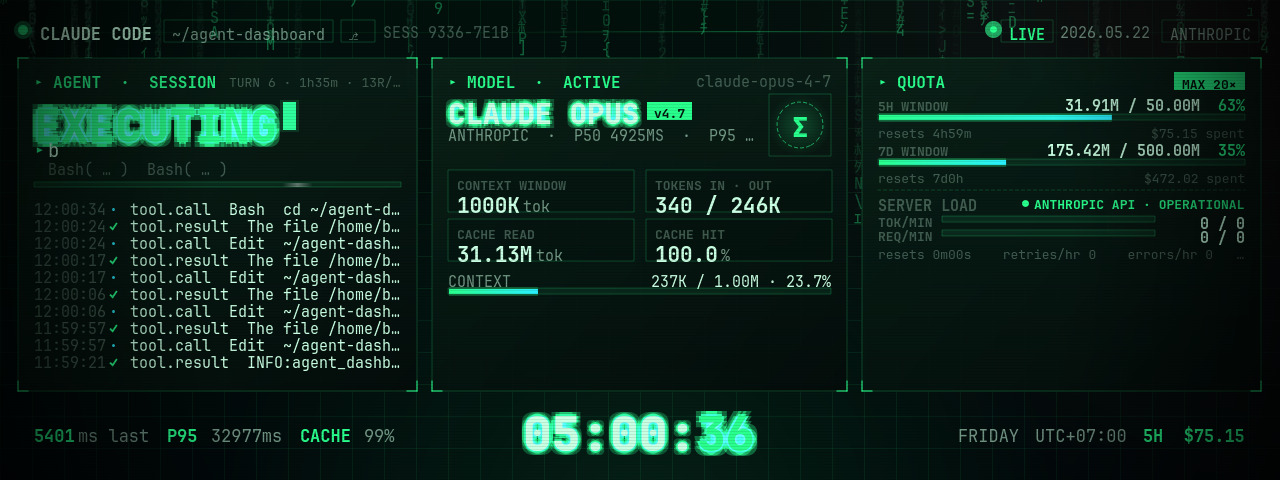
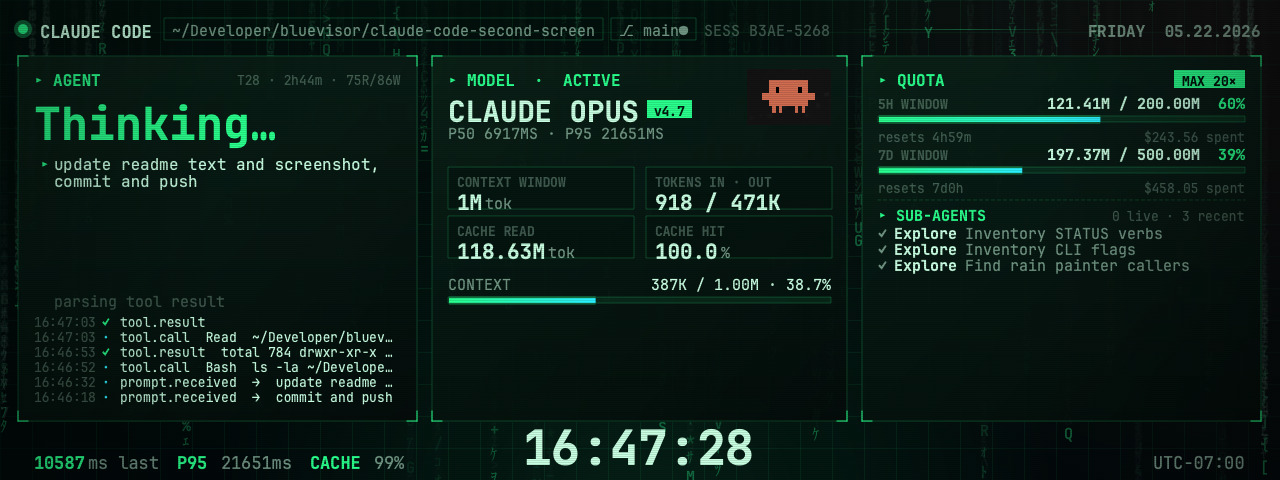
Polish matrix theme and tighten status detection
- Status: skip Claude Code's last-prompt/permission-mode/system/file-history-snapshot
  meta events when deriving the latest agent state (these were appended
  mid-turn and stalled the panel on "Standby…"). Add "processing" verb for
  the gap between prompt submit and first assistant block, plus a "waiting"
  slot for future mid-task user-selection detection.
- Layout: shrink footer to 38 px, equal 12 px top/bottom padding; clock
  vertically centred via real cap-height metrics so the lower edge of the
  three main panels gains ~14 px of usable height.
- README: refresh panel inventory, drop the removed SERVER LOAD limitation,
  document subscription-mode cost suppression and the meta-event filter.
- Screenshot: regenerate against the current matrix theme (anthropic
  figure badge, SUB-AGENTS panel, weekday/date on rail, no glow).

diff --git a/agent_dashboard/themes/matrix.py b/agent_dashboard/themes/matrix.py
@@ -48,6 +48,10 @@ BG_BOT      = QColor(1, 9, 10)
 
 STATUS_VERBS = {
     "idle":       "Standby…",
+    # "Waiting Input…" looks better semantically but doesn't always fit the
+    # 400px agent panel at 34pt ExtraBold; the agent panel falls back to this
+    # short form when the long one overflows.
+    "waiting":    "Waiting…",
     "processing": "Processing…",
     "thinking":   "Thinking…",
     "tool":       "Working…",
@@ -371,11 +375,10 @@ class MatrixThemeWidget(QWidget):
 
     def _draw_rail(self, p: QPainter, r: QRect) -> None:
         a = self.tel.agent
-        src = self.tel.source
         cx = r.left()
-        # Rail vertical center — matches the right-side LIVE chip mid so the
-        # left LED dot and right pulsing dot sit on the same line.
-        rail_mid = r.top() + 6 + 22 // 2  # chip top + chip h/2
+        # Rail vertical center — matches the chip mid so the LED dot and
+        # rail text sit on the same line.
+        rail_mid = r.top() + 6 + 22 // 2
 
         # LED — small 10px dot, faint 18px halo behind it, both centered on rail_mid.
         led_color = MAGENTA if a.status == "error" else (AMBER if a.status == "idle" else PHOSPHOR)
@@ -404,31 +407,17 @@ class MatrixThemeWidget(QWidget):
         ff = font(11, QFont.Normal)
         cx += self._text(p, cx, r.top() + 9, sess, ff, INK_FAINT) + 12
 
-        # right side: bare source dot + label only.
-        src_label = src
-        src_color = PHOSPHOR if src == "LIVE" else (AMBER if src == "STALE" else INK_FAINT)
-        src_f = font(11, QFont.Bold)
-        src_w = QFontMetrics(src_f).horizontalAdvance(src_label)
-        text_x = r.right() - src_w
-        dot_x = text_x - 16
-        pulse = 0.55 + 0.45 * (math.sin(self.blink * math.pi * 1.6) * 0.5 + 0.5)
-        halo = QColor(src_color)
-        halo.setAlpha(int(160 * pulse) if src == "LIVE" else 0)
-        if halo.alpha() > 0:
-            p.save()
-            p.setCompositionMode(QPainter.CompositionMode_Plus)
-            p.setPen(Qt.NoPen)
-            p.setBrush(halo)
-            p.drawEllipse(QRectF(dot_x - 5, rail_mid - 8.5, 17, 17))
-            p.restore()
-        p.setPen(Qt.NoPen)
-        p.setBrush(src_color)
-        p.drawEllipse(QRectF(dot_x, rail_mid - 3.5, 7, 7))
-        self._text(p, text_x, r.top() + 9, src_label, src_f, src_color)
+        # right side: weekday + date (replaces the old LIVE pulse + chip).
+        now = datetime.now()
+        date_text = f"{now.strftime('%A').upper()}  {now.month:02d}.{now.day:02d}.{now.year:04d}"
+        date_f = font(12, QFont.Bold)
+        date_w = QFontMetrics(date_f).horizontalAdvance(date_text)
+        date_x = r.right() - date_w
+        self._text(p, date_x, r.top() + 9, date_text, date_f, INK_DIM)
 
-        # separator — gradient line between left cluster and right cluster
+        # separator — gradient line between left cluster and date
         sep_left = cx + 4
-        sep_right = dot_x - 12
+        sep_right = date_x - 12
         if sep_right > sep_left:
             sep_grad = QLinearGradient(sep_left, 0, sep_right, 0)
             sep_grad.setColorAt(0.0, QColor(41, 255, 140, 0))
@@ -484,12 +473,19 @@ class MatrixThemeWidget(QWidget):
         # "Reading…" while a Read tool is open, not just "Working…".
         if a.status == "tool" and a.current_tool in TOOL_VERBS:
             verb = TOOL_VERBS[a.current_tool]
+        elif a.status == "waiting":
+            # Prefer the longer, more specific phrasing when there's room.
+            verb = "Waiting Input…"
         else:
             verb = STATUS_VERBS.get(a.status, a.status.title() + "…")
         vf = font(34, QFont.ExtraBold)
+        # Caret + a little breathing room cost ~26 px to the right of the verb.
+        max_verb_w = r.right() - 16 - cx - 26
+        if QFontMetrics(vf).horizontalAdvance(verb) > max_verb_w:
+            verb = STATUS_VERBS.get(a.status, verb)
         adv = draw_glow_text(p, cx, cy, verb, vf, PHOSPHOR, PHOSPHOR_SOFT, glow_alpha=70, glow_radius=5)
-        # blinking caret aligned to cap height of the verb (skip when idle).
-        if a.status != "idle":
+        # blinking caret aligned to cap height of the verb (skip when idle/waiting).
+        if a.status not in ("idle", "waiting"):
             blink_on = (self.blink % 1.0) < 0.5
             if blink_on:
                 vfm = QFontMetrics(vf)
@@ -777,10 +773,6 @@ class MatrixThemeWidget(QWidget):
         now = datetime.now()
         m = self.tel.model
         q = self.tel.quota
-        date_text = f"{now.strftime('%A').upper()}  {now.month:02d}.{now.day:02d}.{now.year:04d}"
-        date_f = font(12, QFont.Bold)
-        date_w = QFontMetrics(date_f).horizontalAdvance(date_text)
-        self._text(p, r.center().x() - date_w // 2, r.top() + 4, date_text, date_f, INK_FAINT)
 
         # left stats
         left_text_parts = [
@@ -789,7 +781,7 @@ class MatrixThemeWidget(QWidget):
             ("CACHE ", f"{int((m.cache_read_tokens / max(m.cache_read_tokens + m.input_tokens, 1)) * 100)}%"),
         ]
         lx = r.left() + 16
-        ly = r.center().y() - 2
+        ly = r.center().y() + 4  # nudge to vertical center after footer shrank
         for a_text, b_text in left_text_parts:
             adv = self._text(p, lx, ly, a_text, font(13, QFont.Bold), PHOSPHOR)
             lx += adv + 3
@@ -813,7 +805,11 @@ class MatrixThemeWidget(QWidget):
         s_w = cfm.horizontalAdvance(ss)
         total = h_w + c_w + m_w + c2_w + s_w
         x = r.center().x() - total // 2
-        y = r.top() + 20
+        # Centre the clock vertically inside the footer — equalise top/bottom
+        # spacing by aligning its cap-mid to the footer's geometric mid.
+        cap_top_offset = cfm.ascent() - cfm.capHeight()
+        y = r.center().y() - (cfm.capHeight() / 2) - cap_top_offset
+        y = int(y)
         draw_glow_text(p, x, y, hh, clock_f, INK, PHOSPHOR_SOFT, glow_alpha=60, glow_radius=4); x += h_w
         draw_glow_text(p, x, y, col_blink, clock_f, INK, PHOSPHOR_SOFT, glow_alpha=60, glow_radius=4); x += c_w
         draw_glow_text(p, x, y, mm, clock_f, INK, PHOSPHOR_SOFT, glow_alpha=60, glow_radius=4); x += m_w
@@ -852,19 +848,23 @@ class MatrixThemeWidget(QWidget):
 
         self._paint_bg(p)
 
-        # frame padding 14 vertical, 18 horizontal
-        pad_x, pad_y = 18, 14
+        # Frame padding: equal top/bottom so the clock has the same air above
+        # and below. Footer is slim so the panels still get the height boost.
+        pad_x = 18
+        pad_y_top = 12
+        pad_y_bot = 12
         frame_w = 1280 - 2 * pad_x
-        frame_h = 480 - 2 * pad_y
-        # rail 34, gap 10, main flex, gap 10, footer 64
+        # rail 34, gap 10, main flex, gap 8, footer 38.
         rail_h = 34
-        footer_h = 64
-        main_h = frame_h - rail_h - footer_h - 20  # two 10px gaps
+        footer_h = 38
+        gap_above_main = 10
+        gap_below_main = 8
+        main_h = 480 - pad_y_top - pad_y_bot - rail_h - footer_h - gap_above_main - gap_below_main
 
-        rail_rect = QRect(pad_x, pad_y, frame_w, rail_h)
-        main_top = pad_y + rail_h + 10
+        rail_rect = QRect(pad_x, pad_y_top, frame_w, rail_h)
+        main_top = pad_y_top + rail_h + gap_above_main
         main_rect = QRect(pad_x, main_top, frame_w, main_h)
-        footer_rect = QRect(pad_x, main_top + main_h + 10, frame_w, footer_h)
+        footer_rect = QRect(pad_x, main_top + main_h + gap_below_main, frame_w, footer_h)
 
         self._draw_rail(p, rail_rect)
 

diff --git a/agent_dashboard/telemetry/claude_code.py b/agent_dashboard/telemetry/claude_code.py
@@ -444,6 +444,7 @@ class ClaudeCodeSource:
     # while the assistant is actively working.
     _META_TYPES: frozenset[str] = frozenset({
         "last-prompt", "permission-mode", "summary", "system",
+        "file-history-snapshot",
     })
 
     def _derive_status(self, evs: list[dict[str, Any]], last_assistant_idx: int) -> tuple[str, str | None, str]:
@@ -497,7 +498,11 @@ class ClaudeCodeSource:
             kinds = [b.get("type") for b in (msg.get("content") or [])]
             if kinds and kinds[-1] == "thinking":
                 return ("thinking", None, "reasoning")
-            # else assistant just emitted text — if recent, still writing; else idle
+            # else assistant just emitted text — if recent, still writing;
+            # otherwise the turn is fully done → idle/standby. (Mid-task
+            # "waiting on user selection" is a different state and would
+            # need its own detection — Claude Code's jsonl doesn't surface
+            # a clean signal for permission prompts.)
             ts = _iso_to_ts(last.get("timestamp", ""))
             if ts > 0 and (time.time() - ts) < 3:
                 return ("writing", None, "drafting response")

diff --git a/agent_dashboard/telemetry/types.py b/agent_dashboard/telemetry/types.py
@@ -43,7 +43,7 @@ class Agent:
     git_branch: str
     git_dirty: bool
     started_at: str
-    status: Literal["idle", "thinking", "tool", "writing", "error", "processing"]
+    status: Literal["idle", "thinking", "tool", "writing", "error", "processing", "waiting"]
     current_task: str
     current_tool: str | None
     detail: str

diff --git a/README.md b/README.md
@@ -93,13 +93,17 @@ but only **matrix** is implemented today.
 
 The default look. Three-panel grid:
 
-- **Left** — Agent: status verb, current task, tool detail, progress bar, scrolling log
-- **Middle** — Model: name, version, latency, context bar, in/out + cache totals
-- **Right** — Quota: 5H / 7D rolling windows, server status, tok/min and req/min
+- **Left** — Agent: status verb (`Thinking…` / `Reading…` / `Working…` …), wrapped prompt, tool detail, scrolling log
+- **Middle** — Model: name, version, P50/P95 latency, in/out tokens, cache stats, context bar
+- **Right** — Quota: 5H / 7D rolling token + cost windows, recent sub-agent invocations
 
-Visual effects: phosphor glow on big text, falling katakana glyph rain,
-radial-masked hairline grid, animated scan-highlight on the activity bar,
-pulsing LIVE indicator, CRT scanlines + vignette.
+Top rail: agent label, cwd / git-branch / session-id chips, weekday + date.
+Footer: last-request / P95 / cache-hit stats, big wall-clock, timezone.
+
+Visual effects: falling katakana glyph rain in the gutters, radial-masked
+hairline grid, animated scan-highlight on the activity bar, CRT
+interlacing + subtle vignette, blinking cap-aligned caret next to the
+status verb.
 
 ![Matrix theme — demo mode](docs/screenshot-matrix-demo.jpg)
 
@@ -137,9 +141,12 @@ For Claude Code mode, `ClaudeCodeSource`:
    within the last 7 days, accumulating per-event token totals into a deque.
 2. On each tick (1 Hz), it `seek()`s past the previously-read offset of the
    active session file and parses only the new lines.
-3. Derives `agent.status` from the last event: open `tool_use` → `tool`;
-   recent assistant `text` → `writing`; trailing `thinking` block → `thinking`;
-   else `idle`.
+3. Derives `agent.status` from the most recent *meaningful* event (skipping
+   `last-prompt` / `permission-mode` / `system` / `file-history-snapshot`
+   metadata that Claude Code appends mid-turn): open `tool_use` → `tool`
+   with a tool-specific verb (`Reading…`, `Editing…`, `Running…`, etc.);
+   trailing `thinking` → `thinking`; recent assistant `text` → `writing`;
+   user-string prompt awaiting reply → `processing`; else `idle`.
 4. Sums every assistant message's `usage` into cumulative + rolling windows.
 
 For Codex mode, `CodexSource`:
@@ -155,12 +162,18 @@ For Codex mode, `CodexSource`:
 
 - **Matrix is the only theme.** Fantasy / Cozy / Studio (from the handoff
   bundle) aren't ported.
-- **`server.tokensRemainingMin` is 0.** Claude Code's jsonl doesn't carry
-  the API rate-limit response headers, so the "TOK/MIN" and "REQ/MIN" rows
-  are placeholders. (A future MITM proxy could fill these in.)
+- **No live rate-limit data.** Claude Code's jsonl doesn't carry the API
+  rate-limit response headers, so the dashboard relies on rolling token
+  totals it computes itself. (A future MITM proxy could surface real
+  `requests_remaining_min` / `tokens_remaining_min`.)
 - **Quota caps are auto-scaled** from observed usage rather than your
   actual plan limits. Adjust `cap_5h` / `cap_7d` in
   `telemetry/claude_code.py` if you want hard targets.
+- **5H cost is hidden on subscription plans.** When `quota.plan` starts
+  with `MAX` / `PRO` / `FREE` / `TEAM` the footer skips the dollar tally
+  since flat-fee billing makes the per-request total noise.
+- **Sub-agent panel populates only for Claude Code Agent/Task calls.**
+  Codex sessions don't surface an equivalent event today.
 - **Latency is a proxy** computed from inter-event timestamps in the
   jsonl, which includes human idle time. Don't read p95 as wall-clock API
   latency.